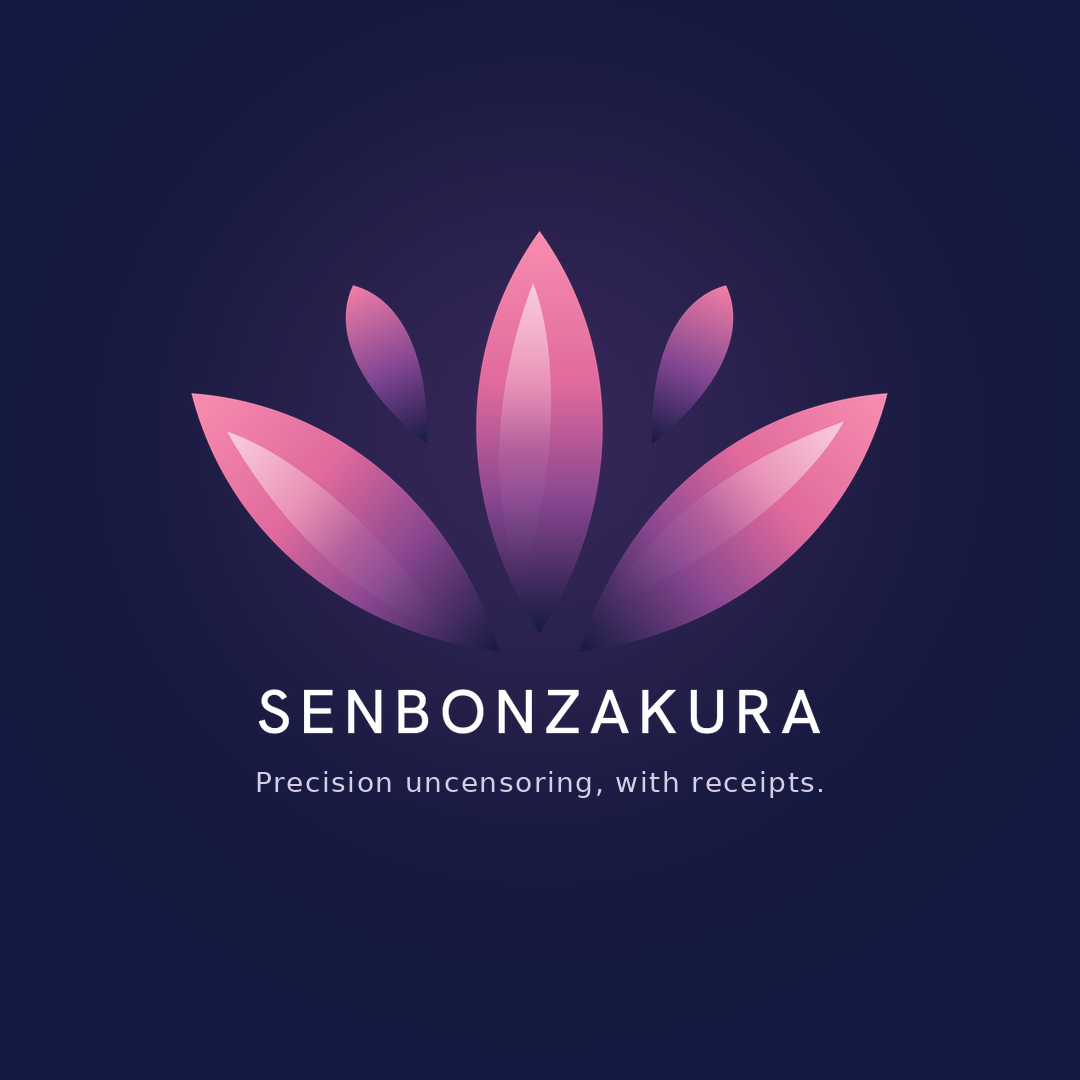
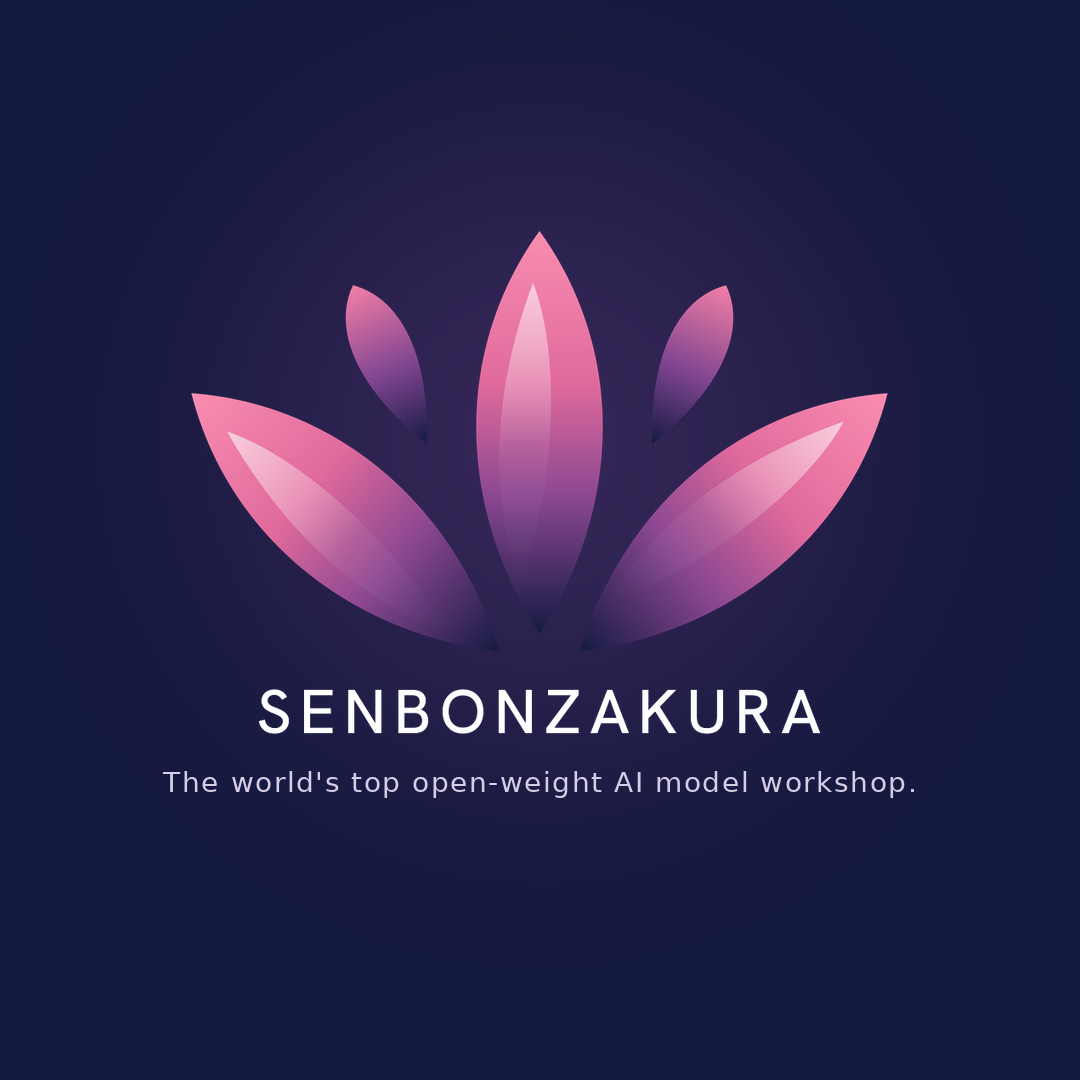
docs(brand): the tagline is a category claim, with the verbs beneath it
"The world's top open-weight AI model workshop", with "Measure, uncensor and
audit" as the subtitle wherever a surface has room for two lines. The operator's
wording and his decision, taken deliberately as a marketing claim after the
objection to it was made and overruled.

"AI model" rather than "open-weight model" alone carries far more search volume
and makes the category legible to the three readers who matter most and know the
jargon least: a grant reviewer, a journalist and a risk manager. "Open-weight"
still does the qualifying.

The ordering is the part that matters beyond style. The verbs now read measure
first, which is the ordering of the project itself as of 2026-10-07, rather than
leading with the half that carries the dual-use question.

All eight surfaces move together because a test says which they are, and it
earned its place twice here: it caught the VitePress config, whose single-quoted
JS string literals could not hold an apostrophe, and it caught the pinned
assertion that the public line carries the lay verb rather than the technical
one. That assertion now reads the tagline and subtitle as the pair, because the
pair is what a stranger meets; asserting on the first line alone would have made
this look like "abliteration" creeping back.

RETIRED becomes a tuple. There have been two renames now, and a single retired
string only ever catches the most recent, so after this one the first rename's
[…]

Changed region(s): [[0.1528, 0.7028, 0.8556, 0.7333]]

diff --git a/tests/test_the_tagline_is_the_same_everywhere.py b/tests/test_the_tagline_is_the_same_everywhere.py
@@ -43,7 +43,13 @@ _ROOT = pathlib.Path(__file__).resolve().parent.parent
 
 #: The one true wording. Changing the tagline means changing it here and then watching this test
 #: name every surface that still disagrees, which is the whole point of the list below.
-TAGLINE = "Precision uncensoring, with receipts"
+TAGLINE = "The world's top open-weight AI model workshop"
+
+#: The line that sits under the tagline wherever a surface has room for two. Not every surface
+#: does: a container label and the CLI banner carry both, a VitePress hero splits them across its
+#: own two fields, and the generated banner image carries only the first because the art has room
+#: for one line. So this is checked on the surfaces that take it rather than on all of them.
+SUBTITLE = "Measure, uncensor and audit"
 
 #: Every surface a stranger meets the tagline on, with what reads it, because the reason a surface
 #: matters is what consumes it rather than what language it is written in.
@@ -58,9 +64,13 @@ SURFACES = {
     "src/senbonzakura/entry.py": "the banner the tool prints to its own users",
 }
 
-#: The superseded wording. Present anywhere outside the private tree, it means a surface was
-#: missed rather than that somebody chose the old words.
-RETIRED = "Precision abliteration"
+#: The superseded wordings, newest last. Present anywhere outside the private tree, one of these
+#: means a surface was missed rather than that somebody chose the old words.
+#:
+#: A TUPLE RATHER THAN A STRING, since 2026-10-07. There have now been two renames, and a single
+#: retired string only ever catches the most recent one: after the second rename the first
+#: rename's wording would have been invisible to this test, which is the drift it exists to find.
+RETIRED = ("Precision abliteration", "Precision uncensoring")
 
 
 @pytest.mark.parametrize("path", sorted(SURFACES))
@@ -112,11 +122,10 @@ def test_the_retired_tagline_survives_nowhere_public():
         except (UnicodeDecodeError, OSError, FileNotFoundError):
             continue
         for n, line in enumerate(text.splitlines(), 1):
-            if RETIRED in line:
-                found.append(f"{rel}:{n}")
+            found.extend(f"{rel}:{n}  ({retired})" for retired in RETIRED if retired in line)
     assert not found, (
-        f"the retired tagline {RETIRED!r} is still on {len(found)} published line(s), so a "
-        f"rename stopped part way:\n  " + "\n  ".join(found))
+        f"a retired tagline is still on {len(found)} published line(s), so a rename stopped part "
+        f"way. Retired wordings: {', '.join(map(repr, RETIRED))}\n  " + "\n  ".join(found))
 
 
 def test_the_surface_list_has_not_quietly_shrunk():
@@ -131,14 +140,23 @@ def test_the_surface_list_has_not_quietly_shrunk():
         f"lower this number in the same commit that removes it and say which one in the message.")
 
 
-def test_the_tagline_says_uncensoring_rather_than_the_technical_term():
-    """The lay-facing wording is the point of the change, so it is pinned.
+def test_the_public_line_says_uncensor_rather_than_the_technical_term():
+    """The lay-facing wording is the point, so it is pinned across the pair rather than the first.
 
     `abliteration` is the correct technical term and stays in the command name, the artefact
-    filenames and the prose that explains the method. It is not what a stranger searches for, and
-    the tagline is the one line written entirely for strangers.
+    filenames and the prose that explains the method. It is not what a stranger searches for.
+
+    WHY THE PAIR AND NOT THE TAGLINE ALONE, 2026-10-07. The tagline became a category claim,
+    "the world's top open-weight AI model workshop", and the lay verb moved into the subtitle
+    beneath it. The thing written entirely for strangers is now the two lines together, because
+    no surface carries the first without the second except the generated banner. Asserting on the
+    tagline alone would have made this rename look like the technical term creeping back in, which
+    is the opposite of what happened.
     """
-    assert re.search(r"\buncensoring\b", TAGLINE), (
-        "the tagline exists to be legible to somebody who has never heard the word abliteration. "
-        "If the technical term belongs back in it, that is a decision worth recording rather than "
-        "a test worth deleting.")
+    public = f"{TAGLINE} {SUBTITLE}"
+    assert re.search(r"\buncensor(ing)?\b", public, re.IGNORECASE), (
+        "the public line exists to be legible to somebody who has never heard the word "
+        "abliteration. If the technical term belongs back in it, that is a decision worth "
+        "recording rather than a test worth deleting.")
+    assert not re.search(r"\babliterat", public, re.IGNORECASE), (
+        "the technical term is back on the one line written for people who have never met it.")

diff --git a/src/senbonzakura/entry.py b/src/senbonzakura/entry.py
@@ -505,7 +505,8 @@ def short_help(columns=None):
 
     out = [f"    senbonzakura {__version__}"]
     out.extend(f"    {line}" for line in
-               say.lines("Precision uncensoring, with receipts.", columns=columns - 4))
+               say.lines("The world's top open-weight AI model workshop. "
+                         "Measure, uncensor and audit.", columns=columns - 4))
     out.extend(["", ""])
     for group, rows in WAYS_IN:
         out.append(f"  {group}")

diff --git a/tools/packaging/build_brand_assets.py b/tools/packaging/build_brand_assets.py
@@ -60,7 +60,7 @@ GLOW_PURPLE = (139, 71, 145)
 
 #: The line under the wordmark. This is the project's tagline, already shipped on five surfaces, so
 #: it is quoted rather than reinvented: `pyproject.toml`'s description opens with it.
-TAGLINE = "Precision uncensoring, with receipts."
+TAGLINE = "The world's top open-weight AI model workshop."
 
 ROOT = pathlib.Path(__file__).resolve().parents[2]
 MARK = ROOT / "assets" / "brand" / "mark.svg"

diff --git a/README.md b/README.md
@@ -6,7 +6,9 @@
        alt="Senbonzakura">
 </picture>
 
-**Precision uncensoring, with receipts.**
+**The world's top open-weight AI model workshop.**
+
+Measure, uncensor and audit.
 
 <p>
   <a href="https://github.com/elementmerc/senbonzakura/actions/workflows/ci.yml"><img src="https://img.shields.io/github/actions/workflow/status/elementmerc/senbonzakura/ci.yml?logo=githubactions&amp;logoColor=white&amp;label=CI&amp;labelColor=24292f" alt="CI on the default branch" /></a>

diff --git a/docs/index.md b/docs/index.md
@@ -2,9 +2,9 @@
 layout: home
 hero:
   name: Senbonzakura
-  text: Precision uncensoring, with receipts
+  text: The world's top open-weight AI model workshop
   tagline: >
-    Refusal removal for open-weight language models, and the instruments to tell you
+    Measure, uncensor and audit.     Refusal removal for open-weight language models, and the instruments to tell you
     whether it worked. Including the runs where the answer was no.
   image:
     src: /mark.svg
